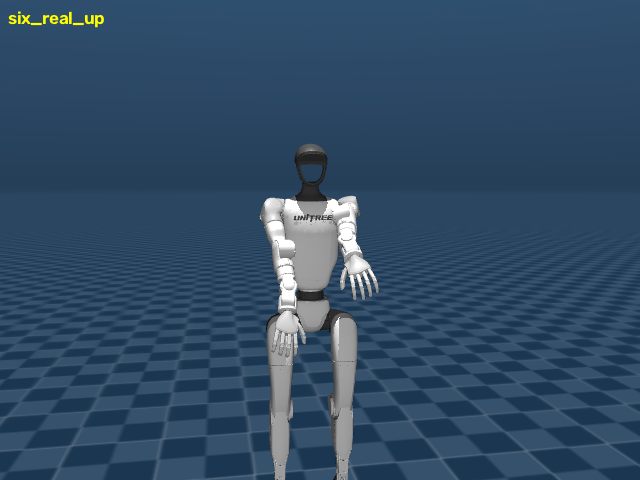
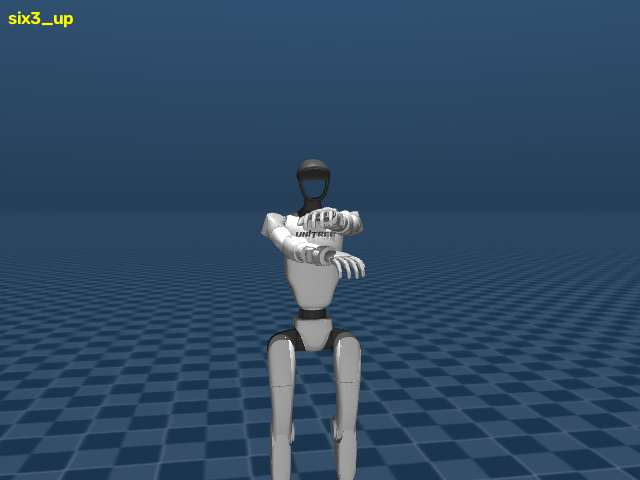
six seven: manos hacia arriba (corrige la orientacion del gesto)

diff --git a/tp_g1/g1_control.py b/tp_g1/g1_control.py
@@ -121,19 +121,17 @@ def pose_for(demo, t):
         q[[L_ELBOW, R_ELBOW]] = 0.8
 
     elif demo == "sixseven":
-        # Meme "6 7": brazos doblados al frente, palmas enfrentadas, las manos
+        # Meme "6 7": manos ARRIBA a la altura de la cara, palmas enfrentadas,
         # suben y bajan alternadas (balancín) mientras se dice "six... seven".
         s = math.sin(2 * math.pi * 1.6 * t)
-        q[L_SHOULDER_PITCH] = -1.15 - 0.35 * s
-        q[R_SHOULDER_PITCH] = -1.15 + 0.35 * s
-        q[L_SHOULDER_ROLL] = -0.05
-        q[R_SHOULDER_ROLL] = 0.05
-        q[L_ELBOW] = 1.85 + 0.15 * s
-        q[R_ELBOW] = 1.85 - 0.15 * s
-        q[L_WRIST_ROLL] = 1.4
-        q[R_WRIST_ROLL] = -1.4
-        q[L_WRIST_PITCH] = 0.2
-        q[R_WRIST_PITCH] = 0.2
+        q[L_SHOULDER_PITCH] = -1.45 - 0.22 * s
+        q[R_SHOULDER_PITCH] = -1.45 + 0.22 * s
+        q[L_SHOULDER_ROLL] = -0.10
+        q[R_SHOULDER_ROLL] = 0.10
+        q[L_ELBOW] = 1.30 + 0.12 * s
+        q[R_ELBOW] = 1.30 - 0.12 * s
+        q[L_WRIST_ROLL] = 1.40
+        q[R_WRIST_ROLL] = -1.40
 
     return q
 
